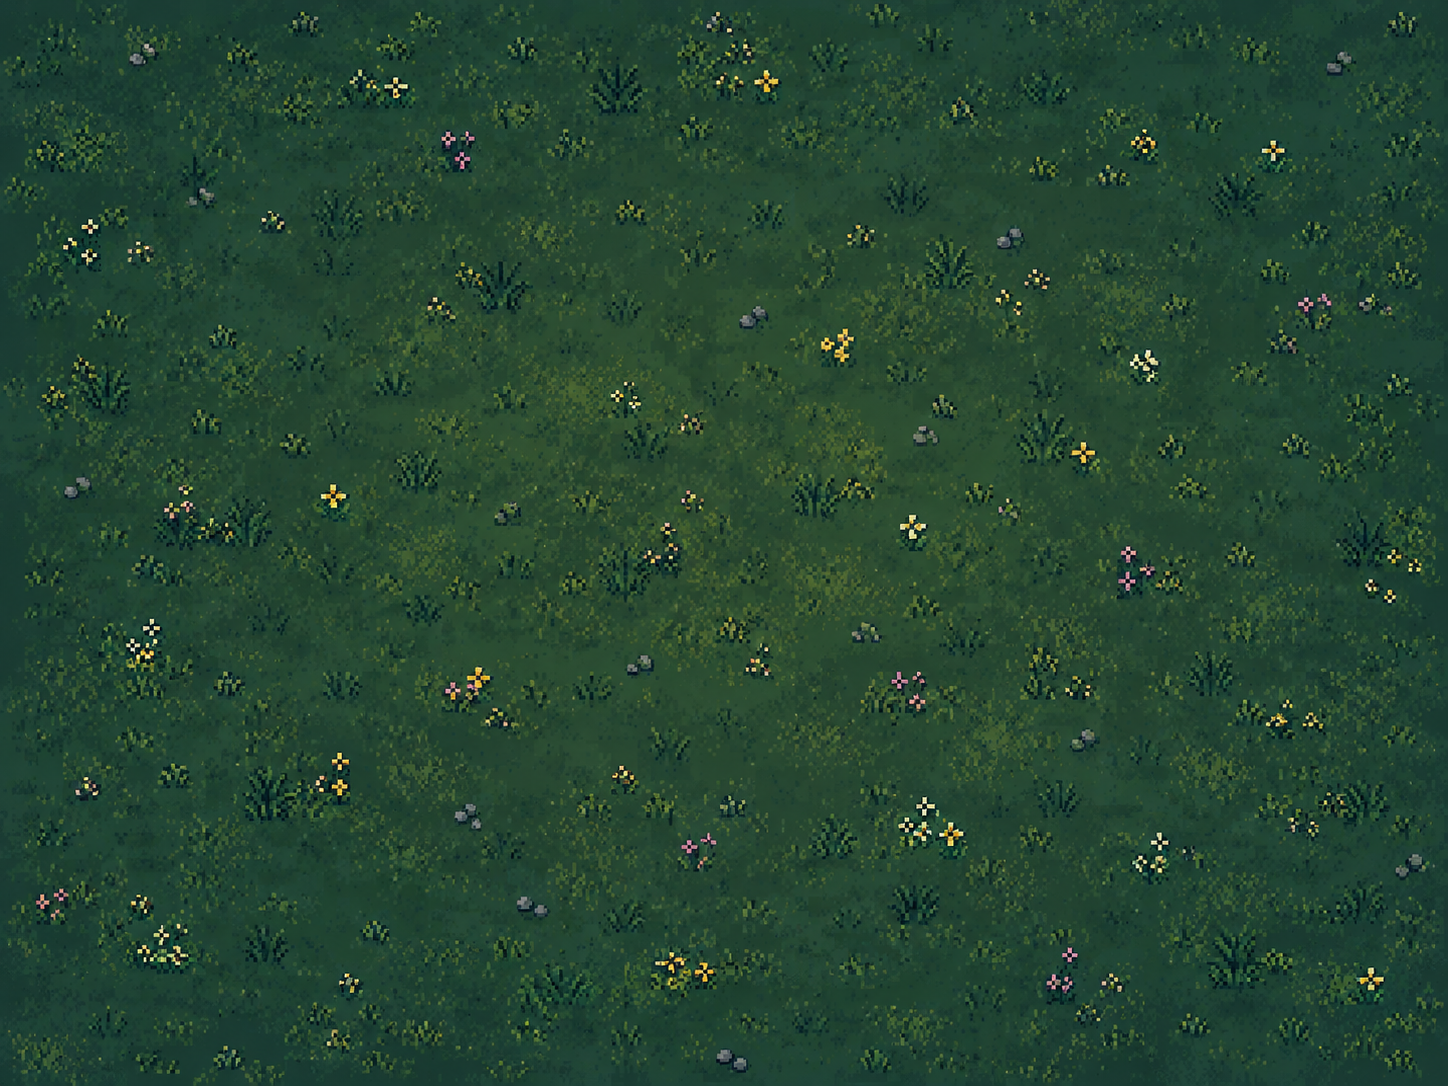
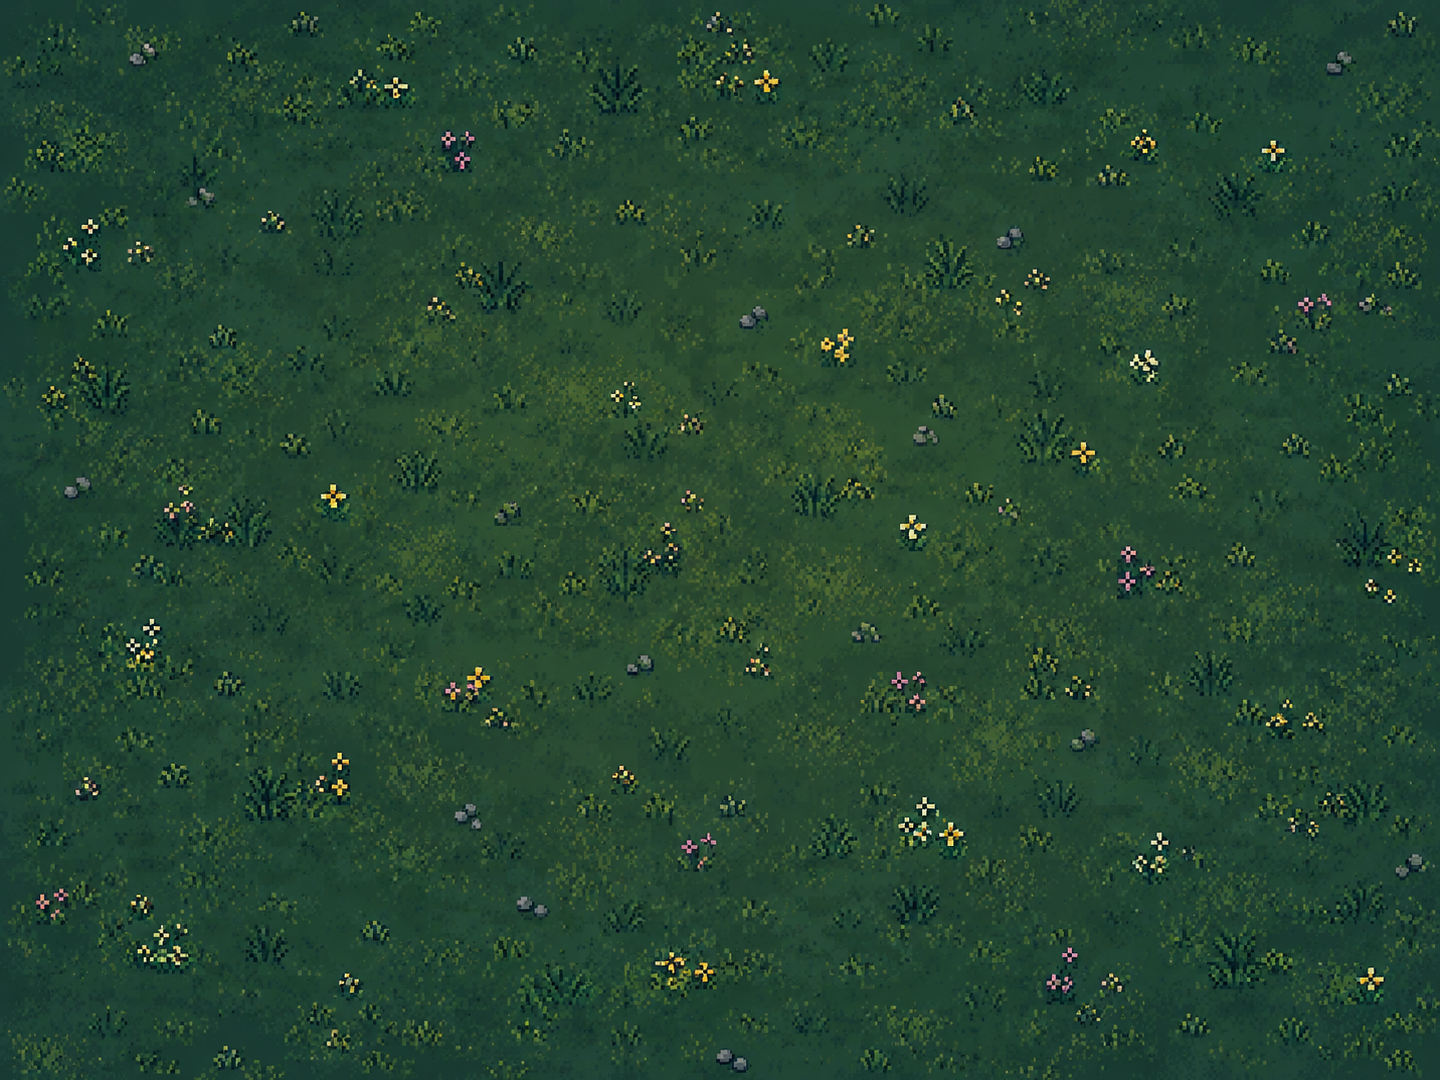
fix(camera): enforce FullHD reference viewport with letterbox
Camera now renders at a fixed 19.2×10.8 world-unit viewport (16:9) and adds pillarbox/letterbox bars on non-16:9 displays. Park splits into reference Viewport and arenaSize so the arena can stay slightly larger than the visible area, leaving room for future camera shake or follow modes. Ground sprite size and EdgeCollider2D regenerate from the new arena bounds.

diff --git a/Assets/BonkPark/Scripts/LetterboxCamera.cs b/Assets/BonkPark/Scripts/LetterboxCamera.cs
@@ -1,0 +1,44 @@
+using UnityEngine;
+
+[RequireComponent(typeof(Camera))]
+[ExecuteAlways]
+public class LetterboxCamera : MonoBehaviour
+{
+    [SerializeField] Park park;
+
+    Camera cam;
+    int lastW, lastH;
+    float lastAspect;
+
+    void OnEnable()
+    {
+        cam = GetComponent<Camera>();
+        Apply();
+    }
+
+    void Update()
+    {
+        if (park == null) return;
+        if (Screen.width == lastW && Screen.height == lastH && park.TargetAspect == lastAspect) return;
+        Apply();
+    }
+
+    void Apply()
+    {
+        if (park == null) return;
+        lastW = Screen.width;
+        lastH = Screen.height;
+        lastAspect = park.TargetAspect;
+
+        float windowAspect = (float)Screen.width / Screen.height;
+        float scale = windowAspect / park.TargetAspect;
+
+        if (scale < 1f)
+            cam.rect = new Rect(0f, (1f - scale) * 0.5f, 1f, scale);
+        else
+        {
+            float inv = 1f / scale;
+            cam.rect = new Rect((1f - inv) * 0.5f, 0f, inv, 1f);
+        }
+    }
+}

diff --git a/Assets/BonkPark/Scripts/Park.cs b/Assets/BonkPark/Scripts/Park.cs
@@ -2,13 +2,18 @@ using UnityEngine;
 
 public class Park : MonoBehaviour
 {
-    [SerializeField] Vector2 size = new Vector2(40f, 30f);
+    [SerializeField] Vector2 referenceViewport = new Vector2(19.2f, 10.8f);
+    [SerializeField] Vector2 arenaSize = new Vector2(21f, 11.8f);
 
-    public Vector2 Size => size;
+    public Vector2 ReferenceViewport => referenceViewport;
+    public Vector2 Size => arenaSize;
+    public float TargetAspect => referenceViewport.x / referenceViewport.y;
 
     void OnDrawGizmos()
     {
         Gizmos.color = Color.cyan;
-        Gizmos.DrawWireCube(transform.position, new Vector3(size.x, size.y, 0f));
+        Gizmos.DrawWireCube(transform.position, new Vector3(arenaSize.x, arenaSize.y, 0f));
+        Gizmos.color = Color.yellow;
+        Gizmos.DrawWireCube(transform.position, new Vector3(referenceViewport.x, referenceViewport.y, 0f));
     }
 }

diff --git a/Assets/BonkPark/Scripts/CameraFit.cs b/Assets/BonkPark/Scripts/CameraFit.cs
@@ -4,13 +4,9 @@ using UnityEngine;
 public class CameraFit : MonoBehaviour
 {
     [SerializeField] Park park;
-    [SerializeField, Range(0f, 0.5f)] float padding = 0.05f;
 
     void Start()
     {
-        var cam = GetComponent<Camera>();
-        var halfH = park.Size.y * 0.5f;
-        var halfW = park.Size.x * 0.5f;
-        cam.orthographicSize = Mathf.Max(halfH, halfW / cam.aspect) * (1f + padding);
+        GetComponent<Camera>().orthographicSize = park.ReferenceViewport.y * 0.5f;
     }
 }